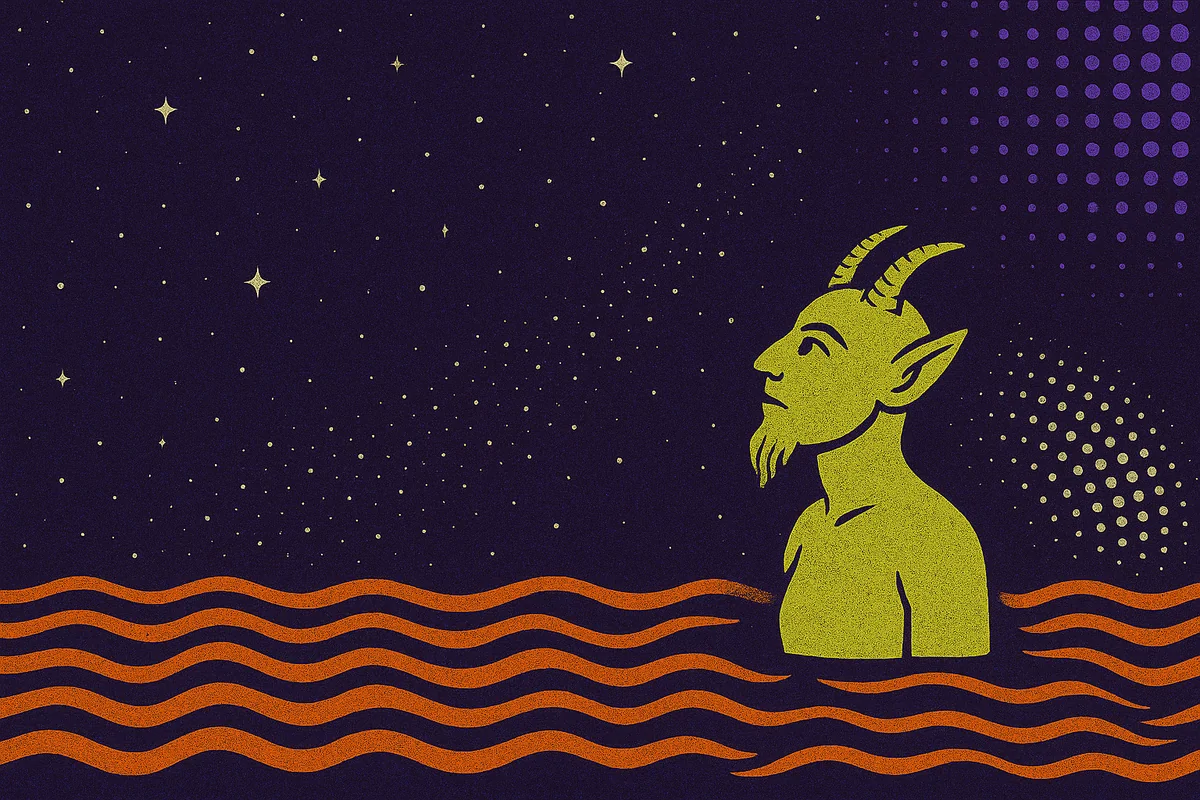
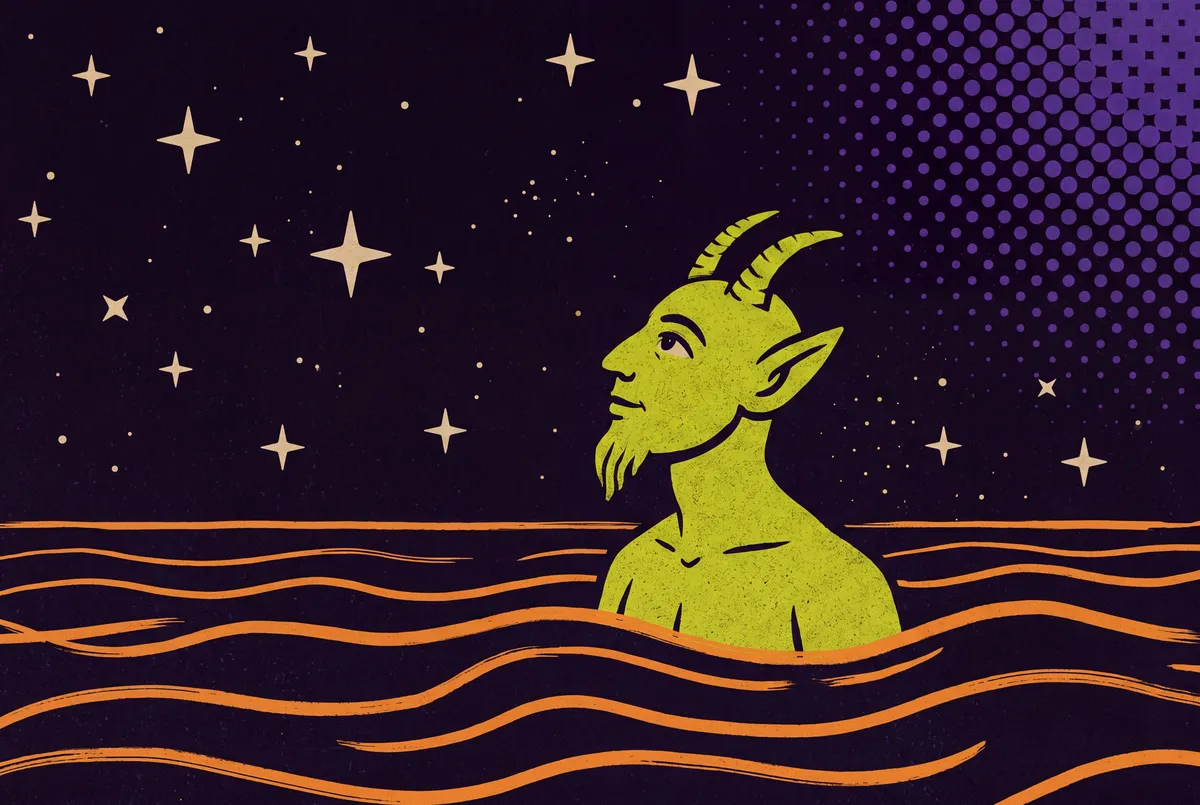
feat: nouvelles images projets optimisées + chemins renommés
- Remplacement des anciennes images par les nouvelles (webp, 3 tailles)
- Nommage cohérent : project-luciole, project-poei-mainframe, project-lunetterie, project-rayssa, project-stella, project-tour-de-controle
- Suppression du dossier source new/
- Mise à jour des chemins dans projects.ts

diff --git a/src/data/projects.ts b/src/data/projects.ts
@@ -29,9 +29,9 @@ export const PROJECTS: Project[] = [
 		context:
 			"Les équipes IT passent environ 15 min par article en veille manuelle. Cet agent réduit ce temps à quelques secondes par question.",
 		image: {
-			desktop: "/assets/images/projects/optimized/project-poetry-desktop.webp",
-			mobile: "/assets/images/projects/optimized/project-poetry-mobile.webp",
-			thumbnail: "/assets/images/projects/optimized/project-poetry-thumb.webp"
+			desktop: "/assets/images/projects/optimized/project-luciole-desktop.webp",
+			mobile: "/assets/images/projects/optimized/project-luciole-mobile.webp",
+			thumbnail: "/assets/images/projects/optimized/project-luciole-thumb.webp"
 		},
 		technologies: ["Python 3.12", "FastAPI", "OpenAI API", "RAG", "SQLite", "Docker", "Langfuse", "SSE"],
 		status: "completed",
@@ -71,9 +71,9 @@ export const PROJECTS: Project[] = [
 		context:
 			"Répondre au besoin réel d'un restaurant : centraliser la gestion des caisses et du personnel dans un outil unique, fiable et sécurisé.",
 		image: {
-			desktop: "/assets/images/projects/optimized/project-cda-oclock-desktop.webp",
-			mobile: "/assets/images/projects/optimized/project-cda-oclock-mobile.webp",
-			thumbnail: "/assets/images/projects/optimized/project-cda-oclock-thumb.webp"
+			desktop: "/assets/images/projects/optimized/project-tour-de-controle-desktop.webp",
+			mobile: "/assets/images/projects/optimized/project-tour-de-controle-mobile.webp",
+			thumbnail: "/assets/images/projects/optimized/project-tour-de-controle-thumb.webp"
 		},
 		technologies: ["React 18", "TypeScript", "Vite", "Tailwind CSS", "Redux Toolkit", "Node.js", "Express", "PostgreSQL", "Redis", "Docker Compose", "JWT", "Swagger", "Jest"],
 		status: "in-progress",
@@ -91,9 +91,9 @@ export const PROJECTS: Project[] = [
 		context:
 			"Donner une présence web professionnelle et performante à un opticien indépendant, en misant sur l'accessibilité, la performance et un design bold maximalist.",
 		image: {
-			desktop: "/assets/images/projects/optimized/project-la-lunetterie-du-coin-desktop.webp",
-			mobile: "/assets/images/projects/optimized/project-la-lunetterie-du-coin-mobile.webp",
-			thumbnail: "/assets/images/projects/optimized/project-la-lunetterie-du-coin-thumb.webp"
+			desktop: "/assets/images/projects/optimized/project-lunetterie-desktop.webp",
+			mobile: "/assets/images/projects/optimized/project-lunetterie-mobile.webp",
+			thumbnail: "/assets/images/projects/optimized/project-lunetterie-thumb.webp"
 		},
 		technologies: ["React 19", "TypeScript", "Vite", "Tailwind CSS", "Framer Motion", "React Router v7", "Vitest", "Playwright", "Lighthouse CI", "Sentry", "Vercel"],
 		status: "completed",
@@ -113,9 +113,9 @@ export const PROJECTS: Project[] = [
 		context:
 			"Une avocate en exercice à Strasbourg avait besoin d'un site professionnel pour se positionner sur les recherches locales et permettre à ses clients de prendre rendez-vous facilement.",
 		image: {
-			desktop: "/assets/images/projects/optimized/project-avocate-rayssa-desktop.webp",
-			mobile: "/assets/images/projects/optimized/project-avocate-rayssa-mobile.webp",
-			thumbnail: "/assets/images/projects/optimized/project-avocate-rayssa-thumb.webp"
+			desktop: "/assets/images/projects/optimized/project-rayssa-desktop.webp",
+			mobile: "/assets/images/projects/optimized/project-rayssa-mobile.webp",
+			thumbnail: "/assets/images/projects/optimized/project-rayssa-thumb.webp"
 		},
 		technologies: ["Next.js 14", "TypeScript", "Tailwind CSS", "Calendly", "Formspree", "Plausible Analytics", "Vitest", "Playwright", "Vercel"],
 		status: "completed",
